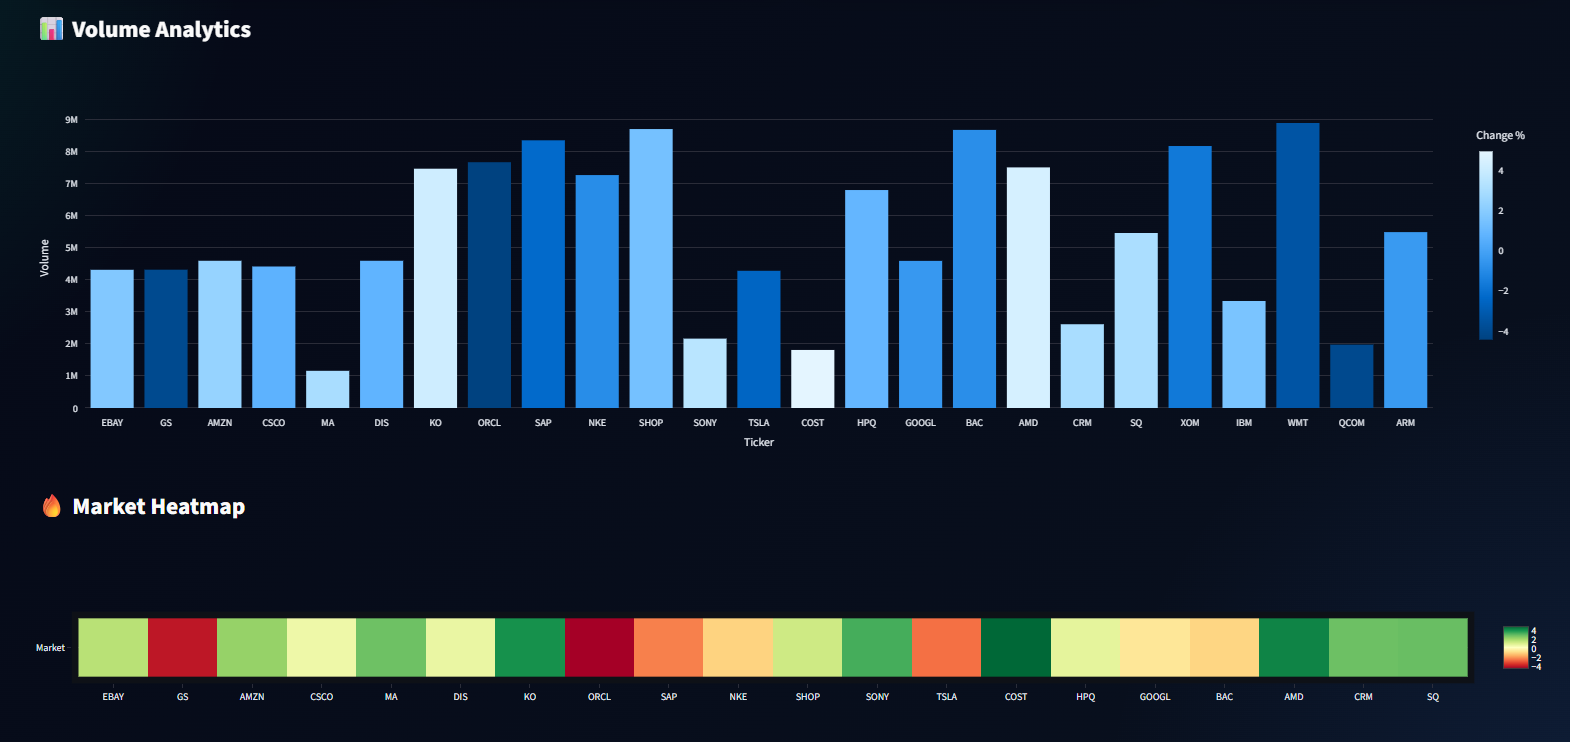
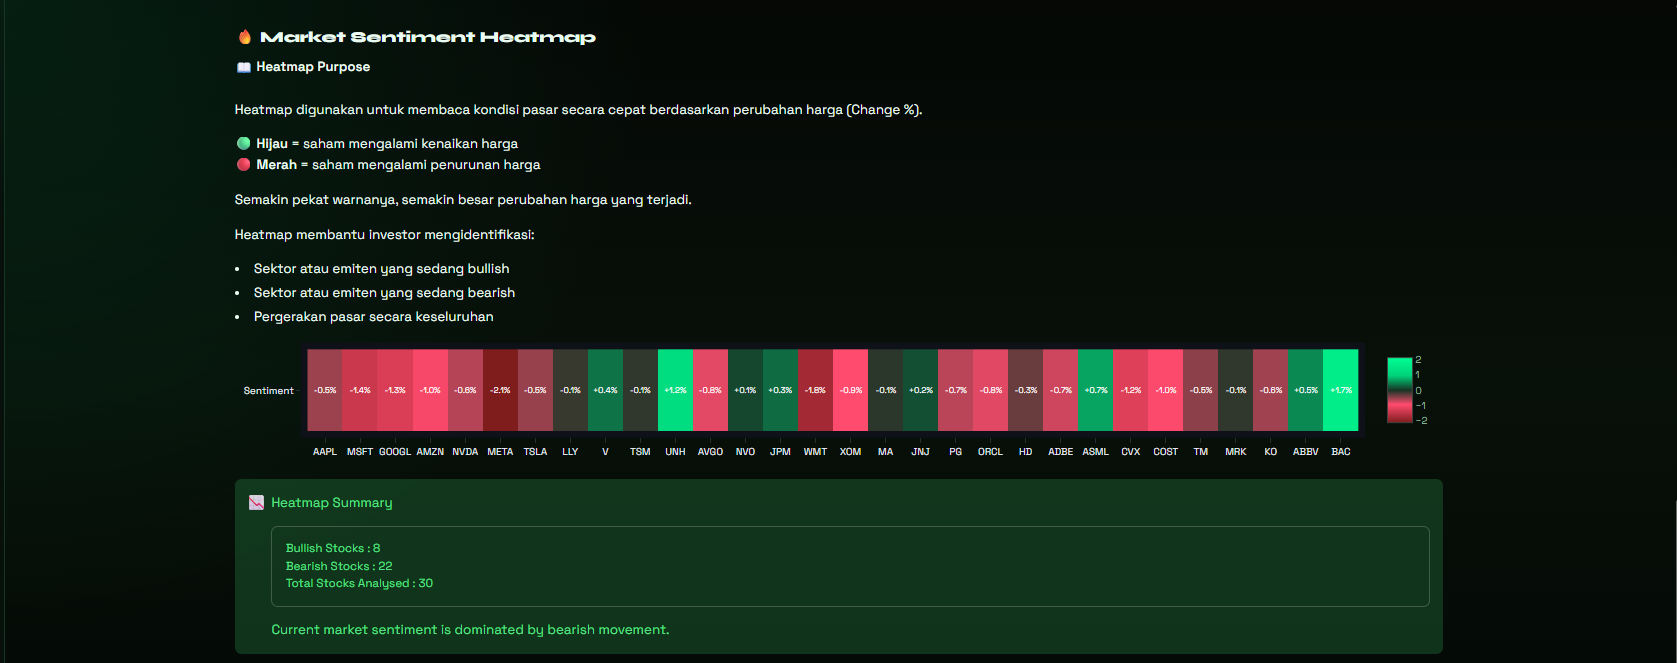
Finalization Version

diff --git a/dashboard/app.py b/dashboard/app.py
@@ -27,6 +27,14 @@ st.markdown(
 <style>
 @import url('https://fonts.googleapis.com/css2?family=Space+Grotesk:wght@300;400;500;600;700&family=JetBrains+Mono:wght@400;500;700&family=Syne:wght@700;800&display=swap');
 
+[data-testid="stIconMaterial"] {
+        display: none !important;
+    }
+    section[data-testid="stSidebar"] {
+        transform: none !important;
+        width: 275px !important;
+    }
+
 :root {
     --bg: #050805;
     --panel: #08110C;
@@ -493,9 +501,9 @@ with st.sidebar:
         f"<div class='sidebar-logo'>Yahoo Finance<br><span>Stock Market</span></div>",
         unsafe_allow_html=True,
     )
-    st.markdown("<div class='sidebar-tagline'>FINANCIAL TERMINAL v3.0</div>", unsafe_allow_html=True)
+    st.markdown("<div class='sidebar-tagline'>FINANCIAL TERMINAL </div>", unsafe_allow_html=True)
     st.markdown(
-        f"<div class='side-chip'>Dataset locked to <b>{DATASET_PERIOD}</b></div>",
+        f"<div class='side-chip'>Batch Dataset Period locked to <b>{DATASET_PERIOD}</b></div>",
         unsafe_allow_html=True,
     )
 
@@ -572,7 +580,6 @@ st.markdown(
     </div>
     <div class="hero-metrics">
         <div class="pill"><span class="pulse-dot"></span> MARKET REPLAY  ACTIVE</div>
-        <div class="pill">BATCH PERIOD {DATASET_PERIOD}</div>
         <div class="pill">APACHE SPARK ANALYTICS</div>
         <div class="pill">HDFS READY</div>
     </div>
@@ -771,7 +778,7 @@ for _ in range(1):
         st.markdown("<br>", unsafe_allow_html=True)
 
         if page == "📊 Overview":
-            st.markdown("<div class='section-header'>📡 Realtime Streaming Data</div><div class='section-divider'></div>", unsafe_allow_html=True)
+            st.markdown("<div class='section-header'>📡 Historical Streaming Replay</div><div class='section-divider'></div>", unsafe_allow_html=True)
             col_chart, col_gl = st.columns([2, 1])
             st.success(""" 🟢 REALTIME DATA Source:
                        Kafka Producer → Kafka Topic → Spark Streaming
@@ -809,7 +816,6 @@ for _ in range(1):
 )
 
             with col_gl:
-                st.markdown("<div class='glass-panel'>", unsafe_allow_html=True)
                 st.markdown(f"<div class='section-header'>🚀 Top Gainers Dataset Period <span style='font-size:10px;color:#4D705A;font-family:JetBrains Mono'>{DATASET_PERIOD}</span></div>", unsafe_allow_html=True)
                 for _, row in gainers_df.iterrows():
                     st.markdown(
@@ -1095,9 +1101,9 @@ for _ in range(1):
                     b_df.groupby("Ticker")
                     .agg(Avg_Close=("Close", "mean"), Total_Volume=("Volume", "sum"), Avg_Change=("Change_Pct", "mean"))
                     .reset_index()
-                    .sort_values("Avg_Close", ascending=False)
+                    .sort_values("Avg_Close", ascending=False).head(rows_to_show)
                 )
-                st.markdown("<div class='section-header'>📈 Historical Avg Close Price per Emiten (Batch)</div>", unsafe_allow_html=True)
+                st.markdown(f"<div class='section-header'>📈 Historical Avg Close Price — Top {rows_to_show} Emiten (Batch)</div>", unsafe_allow_html=True)
                 fig_hist = go.Figure(
                     go.Bar(
                         x=hist_agg["Ticker"],

diff --git a/README.md b/README.md
@@ -196,69 +196,87 @@ These screenshots provide visual evidence that the distributed big data pipeline
 
 ---
 
-# Main Dashboard Interface
+# Dashboard Overview
 
-The main dashboard visualizes real-time stock analytics using a modern fintech-inspired interface.
+The Yahoo Finance Stock Market Dashboard serves as the central interface for monitoring historical and streaming financial analytics. The dashboard integrates KPI monitoring, market breadth analysis, top gainers and losers, and historical replay capabilities into a single fintech-inspired visualization platform.
 
-Features shown:
-- KPI cards
-- live market indicators
-- active stock monitoring
-- real-time financial analytics
+Features:
+- Market KPI Cards
+- Top Gainers & Top Losers
+- Market Breadth Analysis
+- Historical Replay Controls
+- Financial Market Monitoring
 
-![Main Dashboard](screenshots/dashboard_title_kpi_marketticker.png)
-
----
-
-# Market Analytics Visualization
-
-This section demonstrates advanced financial analytics generated from the streaming pipeline.
-
-Features shown:
-- Market Performance analytics
-- Top Gainers
-- Top Losers
-- real-time stock comparison
-
-![Analytics Dashboard](screenshots/analytics.png)
+![Dashboard Overview](screenshots/Dashboard_overview.png)
 
 ---
 
-# Live Market Table & Market Share
+# Historical Market Replay
 
-The system continuously updates market analytics using streaming stock events.
+One of the core features of the project is Historical Market Replay. Instead of replaying data through repeated refreshes, users can directly select any available trading date from the historical dataset.
 
-Features shown:
-- live market table
-- distributed stock analytics
-- market share donut visualization
+The replay engine allows users to:
 
-![Market Table](screenshots/market_table.png)
+- Select historical trading sessions
+- Navigate market conditions from different periods
+- Analyze stock behavior across time
+- Simulate historical market activity
 
----
+This feature transforms static historical records into an interactive market simulation experience.
 
-# Volume Analytics & Market Heatmap
-
-The dashboard visualizes stock activity intensity using:
-- volume analytics
-- trading activity visualization
-- financial heatmaps
-- market fluctuation monitoring
-
-![Heatmap](screenshots/heatmap.png)
+![Historical Replay](screenshots/Historical_Replay_Feature.png)
 
 ---
 
-# Interactive Navigation Sidebar
+# Live Market Feed
 
-The dashboard includes an interactive sidebar navigation system that allows users to switch between:
-- Overview analytics
-- Advanced financial analytics
-- Real-time trading feed
+The Live Market Feed page simulates a streaming stock market environment using Kafka and Spark Structured Streaming.
 
-This improves dashboard usability and creates a more professional financial analytics experience.
+Displayed information includes:
 
-![Sidebar](screenshots/sidebar.png)
+- Stock ticker updates
+- Trading volume changes
+- Price movements
+- Buy/Sell indicators
+- Streaming financial events
+
+Although generated from historical records, the feed behaves similarly to real-time financial event streams.
+
+![Live Feed](screenshots/Live_feed.png)
+
+---
+
+# Market Sentiment Heatmap
+
+The heatmap provides a visual representation of market sentiment based on stock price changes.
+
+Color Interpretation:
+
+🟢 Green = Bullish Movement
+
+🔴 Red = Bearish Movement
+
+The heatmap allows users to quickly identify sectors and companies driving market performance.
+
+![Heatmap](screenshots/Heatmap.png)
+
+---
+
+# AI Market Intelligence
+
+The platform includes a rule-based market intelligence engine capable of generating automated market insights.
+
+Generated information includes:
+
+- Market Regime Detection
+- Bullish/Bearish Assessment
+- Top Sector Identification
+- Top Gainer & Top Loser Detection
+- Market Recommendations
+
+The AI module transforms analytical results into understandable market intelligence reports.
+
+![AI Market Intelligence](screenshots/AI_Market_Intelligence.png)
 
 ---
 
@@ -278,30 +296,79 @@ This demonstrates continuous streaming visualization capabilities within the das
 
 ---
 
-# Kafka Producer Streaming
+# Financial Analytics Dashboard
 
-The Kafka producer continuously streams stock market events into Apache Kafka.
+The Analytics page provides deeper insights into historical market performance using Spark Batch Processing.
 
-This demonstrates:
-- real-time event ingestion
-- streaming simulation
-- distributed messaging systems
+Analytics include:
 
-![Kafka Producer](screenshots/kafka.png)
+- Sector Performance Analysis
+- Historical Market Trends
+- Aggregated Financial Metrics
+- Cross-sector Comparisons
+
+![Analytics](screenshots/Analytics_sector.png)
 
 ---
 
-# Spark Distributed Analytics Processing
+# Smart Watchlist
 
-Apache Spark Structured Streaming continuously processes incoming Kafka events and performs distributed analytics computations.
+The Smart Watchlist automatically identifies stocks that deserve investor attention based on:
 
-This demonstrates:
-- distributed stream processing
-- batch analytics
-- large-scale financial aggregation
-- streaming computation
+- Trading Volume
+- Price Momentum
+- Sector Strength
+- Signal Classification
 
-![Spark Processing](screenshots/spark.png)
+The watchlist helps users quickly identify promising market opportunities.
+
+![Smart Watchlist](screenshots/Smart_watchlist.png)
+
+---
+
+# Watchlist Candidate Details
+
+Each watchlist candidate is accompanied by detailed financial information including:
+
+- Sector Classification
+- Volume Analysis
+- Price Performance
+- Signal Type
+- Historical Snapshot
+
+![Watchlist Details](screenshots/Watchlist_info.png)
+
+# Kafka Event Streaming
+
+Apache Kafka acts as the messaging backbone of the system.
+
+Responsibilities:
+
+- Event ingestion
+- Stream buffering
+- Distributed message delivery
+- Producer-consumer communication
+
+The Kafka producer continuously transforms historical stock records into streaming events that are consumed by Spark Structured Streaming.
+
+![Kafka](screenshots/Kafka.png)
+
+---
+
+# Historical Batch Analytics
+
+Apache Spark Batch Processing is used to analyze over 600,000 historical stock records.
+
+The batch layer performs:
+
+- Average Price Analysis
+- Volume Aggregation
+- Historical Trend Detection
+- Long-Term Market Insights
+
+This complements the streaming layer by providing historical market intelligence.
+
+![Spark Batch Analytics](screenshots/Spark.png)
 
 ---
 
@@ -912,7 +979,11 @@ The dashboard includes:
 
 # Historical Market Replay
 
+# Historical Market Replay
+
 The latest version of the dashboard introduces a Historical Market Replay Engine.
+
+This enhancement was implemented based on project evaluation feedback.
 
 Instead of generating random stock values, the dashboard replays actual historical market records from the dataset period (2018–2023).
 
@@ -920,10 +991,12 @@ Users can:
 
 - Select a specific trading date using the Date Picker.
 - Explore market conditions for any historical trading session.
-- Run Replay Mode to simulate sequential market activity.
-- Analyze historical stock performance as if monitoring a live market environment.
+- Run Manual Replay mode.
+- Run Auto Replay mode.
+- Simulate sequential market activity using historical records.
+- Compare batch analytics and streaming analytics using the same dataset.
 
-This feature provides a more realistic simulation of financial streaming systems while preserving historical accuracy.
+This feature creates a realistic financial streaming simulation while preserving historical accuracy.
 
 ---
 
